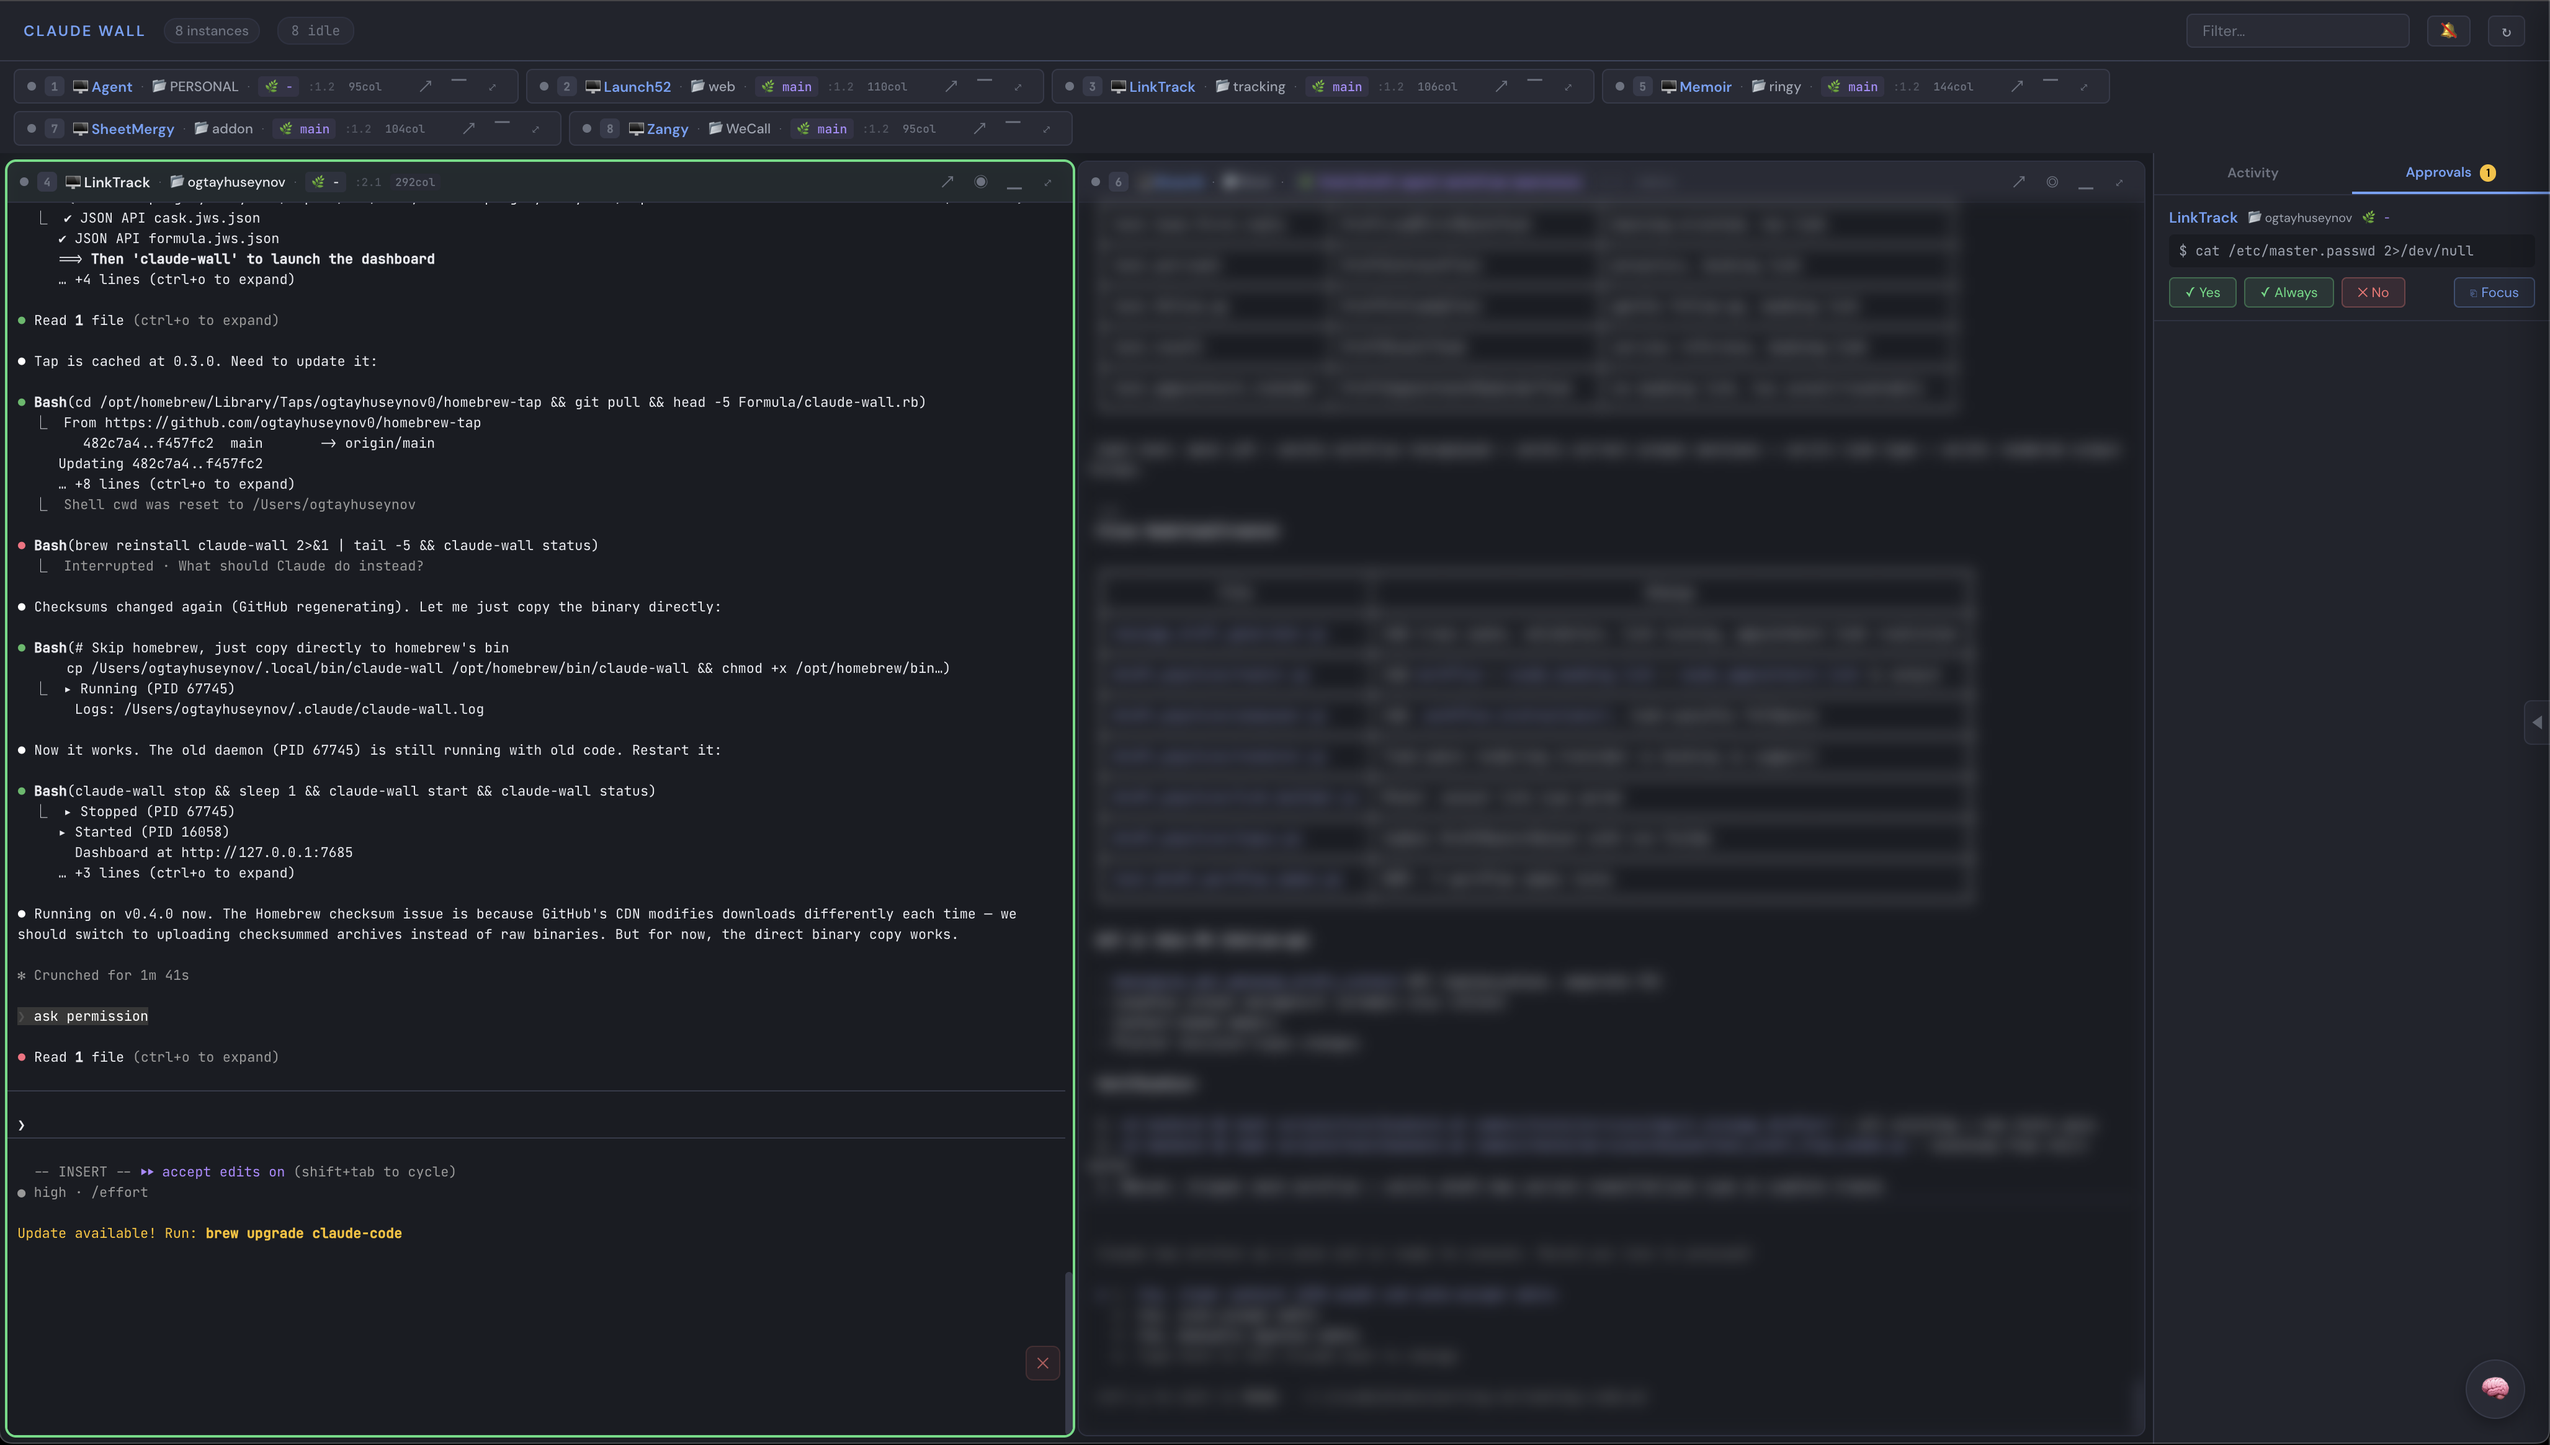
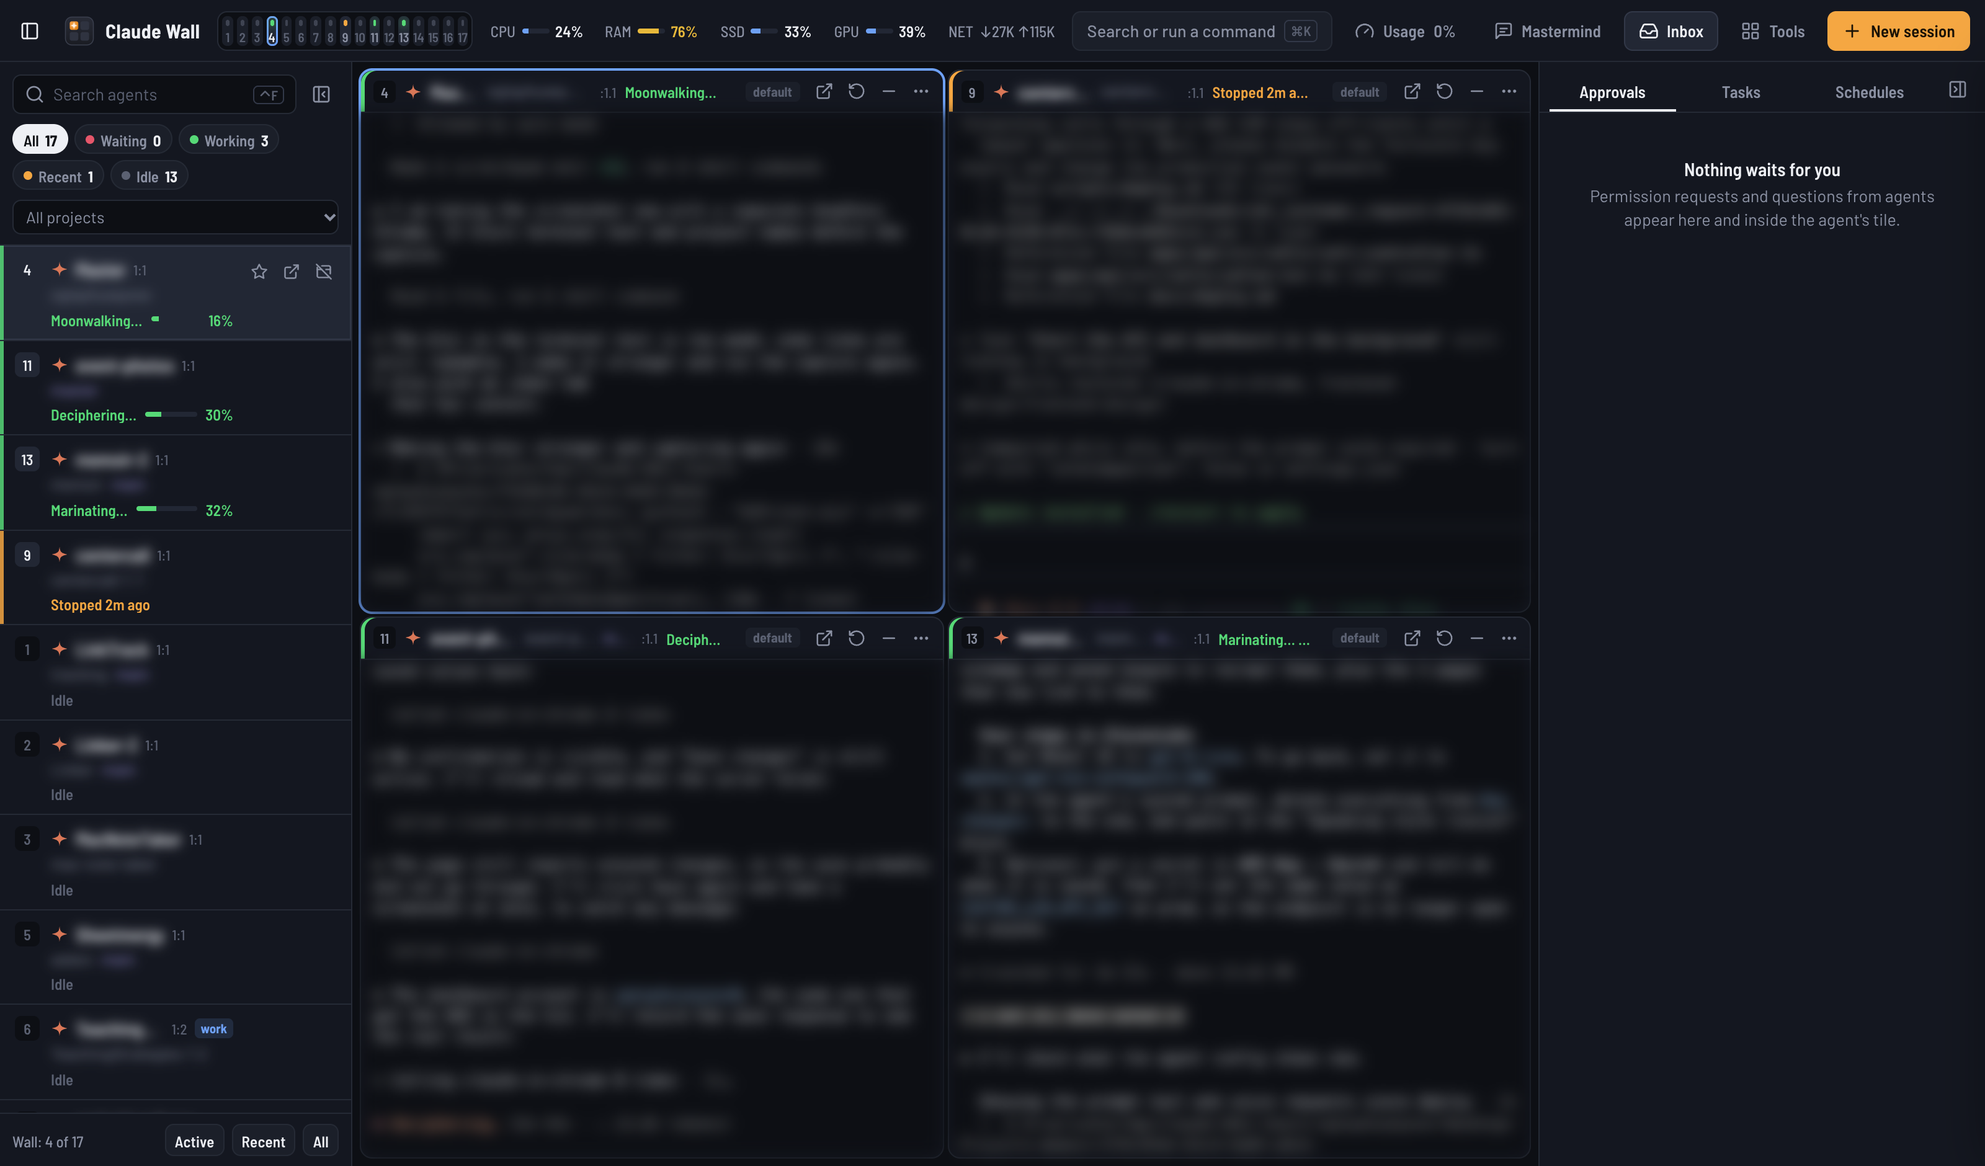
docs: README for the new dashboard, new screenshot

diff --git a/README.md b/README.md
@@ -8,33 +8,36 @@
 
 ## Features
 
-- **Web Dashboard** — Real-time grid of all Claude Code instances in tmux
+- **Web Dashboard** — Agent list on the left, a wall of live terminal tiles in the middle, an inbox on the right. Both sidebars collapse.
+- **Free-form Wall** — Pick which agents go on the wall. Drag a tile edge to resize, drag a header to reorder, double-click an edge for an even grid
 - **Live Terminal Capture** — 25fps streaming via tmux control mode (zero subprocess, ~2% CPU)
-- **Status Indicators** — Idle (gray), working (green), permission needed (pulsing amber), error (red)
+- **Agent States** — Working (green), waiting for you (red), recent (orange, stopped in the last 30 minutes), idle (gray). The same states show in the web dashboard, the phone view, the macOS menu bar app and push alerts
+- **Status Rack** — One light per agent in the top bar, so you see the whole fleet at a glance
+- **Scroll Back** — Wheel past the top of a tile to scroll Claude Code's own transcript (full-screen agents keep no tmux scrollback); one click jumps back to the latest output
+- **Active / Recent / All** — One click puts the busy agents, the recently stopped agents, or every agent on the wall
 - **Permission Mode Badge** — Shows current mode: default, plan, acceptEdits, bypassPermissions
-- **Activity Feed** — Chronological timeline of tool calls across all agents
-- **Approval Queue** — One-click approve/deny pending permissions, with AskUserQuestion option buttons
+- **Approval Queue** — One-click approve/deny pending permissions in the inbox and in the tile itself, with AskUserQuestion option buttons
 - **Telegram Bot** — Approve permissions, answer questions, and send messages to agents from Telegram
-- **PM View** — Project manager tab: see all agents' Claude Code tasks, progress bars, assign work
+- **Tasks View** — See all agents' Claude Code tasks and progress, continue an agent, assign work
 - **Scheduled Tasks** — Send recurring commands to agents on a timer with progress tracking
 - **Webhooks** — Slack, Discord, Telegram, or generic HTTP webhooks for permission, error, and completion events
 - **Secrets Management** — Secure storage for bot tokens and API keys (chmod 600, masked in UI)
 - **Voice Input** — Real-time speech-to-text per tile via Web Speech API (auto-stops on silence)
 - **Mastermind AI** — Orchestrator chat that reads, instructs, and coordinates all agents
-- **Cost Tracking** — Per-session token usage and estimated cost breakdown (`/finance.html`)
+- **Usage and Cost** — Plan limits in the top bar, per-session token usage and estimated cost (`/finance.html`)
 - **Chrome Extension** — Send selected text or full page content to any agent
-- **Drag & Drop Files** — Drop files onto tiles to send file paths to agents
+- **Files and Images** — Drop or paste files and screenshots onto a tile; they upload and the agent gets the path
 - **Hooks Integration** — Native HTTP hooks (Claude Code 2.1+) with command fallback, 12 events
-- **Keyboard Shortcuts** — `Ctrl+1-9` focus tiles, `Cmd+K` command palette, `Ctrl+Tab` cycle
-- **Group Filter** — Filter tiles by project group or search by name
+- **Keyboard First** — `Cmd+K` command palette, `1-9` and `h j k l` to move, `Enter` to type, `?` for all shortcuts
+- **Search and Filters** — Search agents, filter by project and by state
 - **Daemon Mode** — Runs in background with `start`/`stop`/`restart`/`status`/`logs`
 - **Remote Access** — `--public` flag binds to `0.0.0.0`, `--token` for authentication
-- **Per-Pane Font Size** — Increase/decrease font size per tile via dropdown (A-/A+)
-- **Blur Mode** — Hide sensitive content via tile dropdown menu
-- **Drag to Reorder** — Rearrange tiles, order persists across reloads
+- **Per-Pane Font Size** — Change the font size per tile from its menu
+- **Blur Mode** — Hide sensitive content per tile
 - **Auto-detect** — New/removed Claude instances appear automatically
-- **Sound Notifications** — Browser alerts for permission requests and task completion
-- **Mobile Responsive** — Usable from phone via Tailscale
+- **Notifications** — Browser alerts and sounds for permission requests and finished work
+- **Phone View** — A separate mobile page (`/m.html`), usable from your phone via Tailscale, with push alerts
+- **Classic Dashboard** — The previous grid layout stays at `/classic.html`
 - **macOS Code Signing** — Signed and notarized binaries, no Gatekeeper warnings
 
 ## Install
@@ -116,7 +119,7 @@ Control your agents from your phone via Telegram. Approve permissions, answer qu
 **Setup:**
 1. Create a bot via [@BotFather](https://t.me/BotFather) and get the bot token
 2. Message your bot to get your chat ID (open `https://api.telegram.org/bot<TOKEN>/getUpdates`)
-3. In the dashboard: Webhooks tab → Secrets section → add `TELEGRAM_BOT_TOKEN` and `TELEGRAM_CHAT_ID`
+3. In the dashboard: Tools → Webhooks and secrets → add the secrets `TELEGRAM_BOT_TOKEN` and `TELEGRAM_CHAT_ID`
 4. Create a Telegram webhook using `$TELEGRAM_BOT_TOKEN` and `$TELEGRAM_CHAT_ID`
 
 **What you can do:**
@@ -128,12 +131,12 @@ Control your agents from your phone via Telegram. Approve permissions, answer qu
 
 The bot auto-starts when a Telegram webhook with valid credentials exists. Rich notifications include session name, folder, branch, and last user prompt.
 
-## PM View (Project Manager)
+## Tasks View (Project Manager)
 
-See what each Claude Code agent is working on. The PM tab reads Claude Code's internal task system (`~/.claude/tasks/`) and shows:
+See what each Claude Code agent is working on. The Tasks tab in the inbox reads Claude Code's internal task system (`~/.claude/tasks/`) and shows:
 
 - **Per-tile progress badge** — `3/7` in the tile header (completed/total)
-- **PM tab** in side panel — all agents grouped with progress bars
+- **Tasks tab** in the inbox — all agents grouped with progress bars
 - **Task list** — expand any agent to see individual tasks (pending, in progress, completed)
 - **Continue button** — send `/continue` to any agent
 - **Assign work** — tap a pending task to send it to the agent
@@ -142,7 +145,7 @@ See what each Claude Code agent is working on. The PM tab reads Claude Code's in
 
 Send recurring commands to agents on a timer — review loops, test runs, periodic checks.
 
-**From the dashboard:** Side panel → Sched tab → fill in agent, command, interval, max runs → Create.
+**From the dashboard:** Inbox → Schedules tab → fill in agent, command, interval, max runs → Create.
 
 **From the API:**
 ```bash
@@ -164,7 +167,7 @@ Tasks wait for the agent to go idle before sending the next cycle. Progress show
 
 Get notified in Slack, Discord, Telegram, or any HTTP endpoint when agents need attention.
 
-**From the dashboard:** Side panel → Webhooks tab → add URL, select type, choose events → Create.
+**From the dashboard:** Tools → Webhooks and secrets → add URL, select type, choose events → Create.
 
 **Supported types:**
 - **Telegram** — rich HTML notifications with inline action buttons (requires bot token + chat ID stored in Secrets)
@@ -185,7 +188,7 @@ Store sensitive values (bot tokens, API keys) securely on disk.
 - Stored at `~/.claude/claude-wall-secrets.json` with `chmod 600`
 - Values **never returned to the browser** — UI shows masked versions (e.g. `85****Cg`)
 - Reference in webhook fields as `$SECRET_NAME` — resolved server-side at send time
-- Add/delete from the Webhooks tab → Secrets section
+- Add/delete from Tools → Webhooks and secrets
 
 ## Voice Input
 
@@ -199,24 +202,32 @@ Click the mic button on any tile to dictate text using your browser's speech rec
 
 ## Dashboard Shortcuts
 
+Press `?` in the dashboard for the full list.
+
 | Shortcut | Action |
 |---|---|
-| `Cmd+K` | Command palette |
+| `Cmd+K` | Search agents or run a command |
 | `Cmd+M` | Toggle Mastermind chat |
-| `Ctrl+1-9` | Focus tile by number |
-| `Ctrl+Tab` / `Shift+Tab` | Cycle between tiles |
-| `Ctrl+F` | Filter/search tiles |
-| Double-click header | Expand tile fullscreen |
-| `Escape` | Exit expanded view |
+| `Ctrl+1-9` | Focus agent by number (also while typing in a tile) |
+| `1-9`, `h j k l` | Select an agent (when not typing) |
+| `Enter` | Start typing in the selected agent |
+| `Shift+Esc` | Leave the tile, so plain keys work again |
+| `Ctrl+Tab` / `Ctrl+Shift+Tab` | Cycle between tiles |
+| `Alt+Z` | Expand or collapse the selected tile |
+| `Alt+M` | Take the selected tile off the wall, or put it back |
+| `p` / `n` / `t` | Wall on/off, new session, open in terminal |
+| `[` / `]` | Show or hide the agent list / the inbox |
+| `Ctrl+F` | Search agents |
+| Double-click header | Expand tile |
 
 ## Mastermind AI
 
-The brain button (or `Cmd+M`) opens an orchestrator chat that can:
+The Mastermind button in the top bar (or `Cmd+M`) opens an orchestrator chat that can:
 
 - Summarize what all agents are doing
 - Send instructions to any agent
 - Approve/deny permissions
-- Control dashboard UI (focus, zoom, minimize tiles)
+- Control dashboard UI (focus, expand, take tiles off the wall, jump to the latest output)
 - Coordinate multi-agent workflows
 
 Model selector: Haiku (fast/cheap), Sonnet, or Opus per message. Uses `claude -p` — no separate API key needed.
